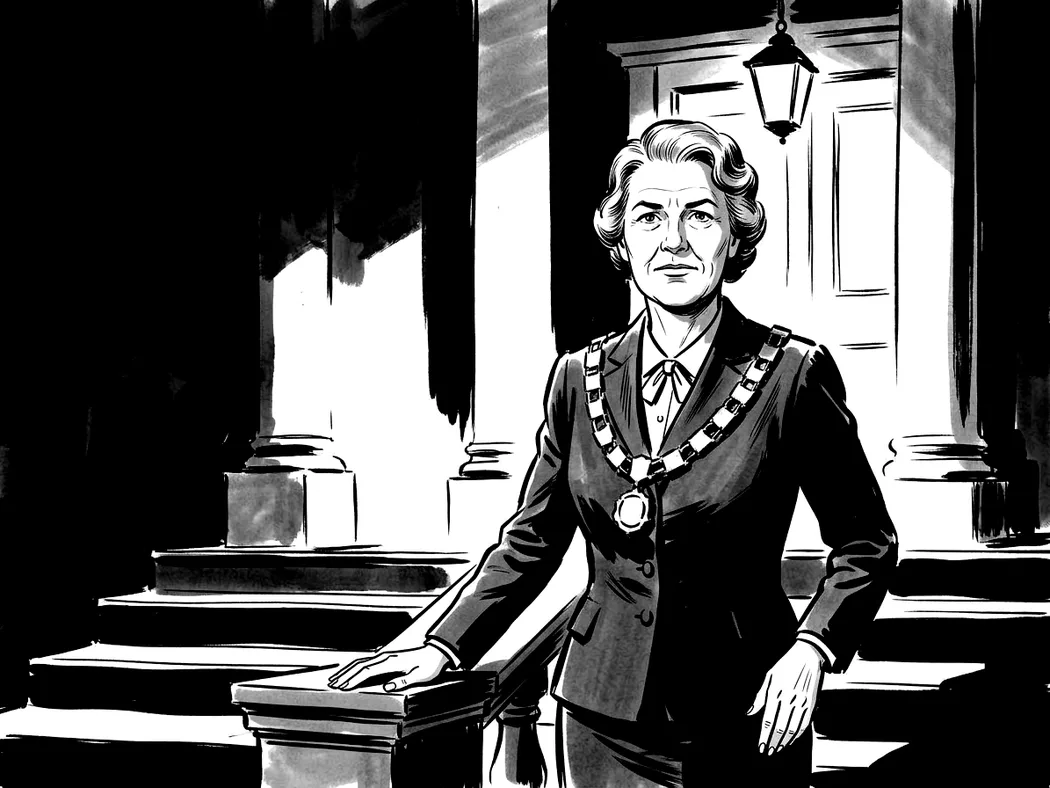
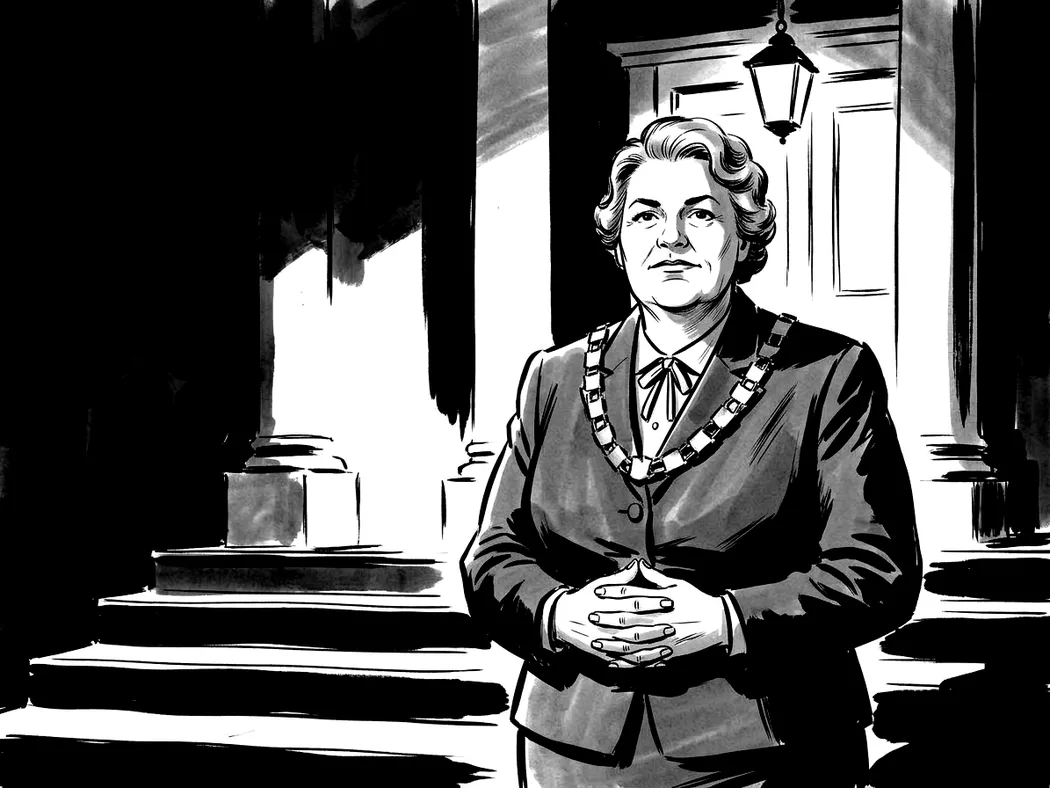
Byt läkarens bilder och borgmästarkvinnan mot Jonas nya
Läkaren står nu i sin mottagning och borgmästarkvinnan är omgjord med
knäppta händer (Jonas 2026-11-15).

Claude-Session: https://claude.ai/code/session_01X82C4AptUEE9LHKngPSzUq

Changed region(s): [[0.2133, 0.1218, 0.9143, 1.0], [0.3352, 0.6091, 0.3657, 0.7005], [0.3048, 0.5787, 0.3352, 0.6091]]

diff --git a/src/scenes/sceneImages.js b/src/scenes/sceneImages.js
@@ -90,10 +90,10 @@ export const SCENE_IMAGES = /** @type {const} */ ({
   roleMafiaMan: { src: roleMafiaMan, alt: 'En man i kritstrecksrandig kostym och hatt röker i en dörröppning en regnig natt.', position: '100% 30%' },
   roleDetectiveWoman: { src: roleDetectiveWoman, alt: 'En kvinnlig detektiv i ljus trenchcoat och fedora antecknar i ett block i en regnig gränd under en gatlykta.', position: '100% 30%' },
   roleDetectiveMan: { src: roleDetectiveMan, alt: 'En manlig detektiv i ljus trenchcoat och fedora antecknar i ett block i en regnig gränd under en gatlykta.', position: '100% 30%' },
-  roleDoctorWoman: { src: roleDoctorWoman, alt: 'En läkare i mörk kappa med stetoskop och läkarväska står i en upplyst dörröppning.', position: '100% 30%' },
+  roleDoctorWoman: { src: roleDoctorWoman, alt: 'En kvinnlig läkare i vit rock med stetoskop står med armarna i kors i sin mottagning, i ljuset från en skrivbordslampa.', position: '100% 30%' },
   roleBodyguardWoman: { src: roleBodyguardWoman, alt: 'En lång livvakt i bältad rock och liten hatt står med armarna i kors vid en upplyst port en natt och ser prövande på oss.', position: '90% 30%' },
   roleBodyguardMan: { src: roleBodyguardMan, alt: 'En stor livvakt med mustasch, i rock och fedora, står med armarna i kors vid en upplyst port en natt och ser rakt på oss.', position: '90% 30%' },
-  roleDoctorMan: { src: roleDoctorMan, alt: 'En läkare med glasögon och mustasch, i mörk kappa med stetoskop och läkarväska, står i en upplyst dörröppning.', position: '100% 30%' },
+  roleDoctorMan: { src: roleDoctorMan, alt: 'En läkare med glasögon och mustasch, i vit rock med stetoskop, står vid skrivbordet i sin mottagning, i ljuset från en skrivbordslampa.', position: '100% 30%' },
   roleLawyerWoman: { src: roleLawyerWoman, alt: 'En advokat i knäppt dräkt, blus med rosett och liten hatt står i dörren till sin upplysta byrå med en tjock akt mot sidan och glasögonen i handen.', position: '100% 30%' },
   roleLawyerMan: { src: roleLawyerMan, alt: 'En advokat i kritstrecksrandig kostym med väst och lossad slips lutar sig i dörren till sin upplysta byrå med en tjock akt under armen och ler lite slugt.', position: '100% 30%' },
   roleCitizenWoman: { src: roleCitizenWoman, alt: 'En kvinna i blommig klänning står i sin öppna ytterdörr och ser ut i mörkret med handen mot dörrkarmen.', position: '75% 30%' },
@@ -108,7 +108,7 @@ export const SCENE_IMAGES = /** @type {const} */ ({
   roleSausageVendorMan: { src: roleSausageVendorMan, alt: 'En korvgubbe med mustasch och pappersmössa räcker fram en korv med en tång vid sin korvvagn i regnet.', position: '100% 30%' },
   roleGodfatherWoman: { src: roleGodfatherWoman, alt: 'En äldre kvinna med pärlhalsband sitter med hopknäppta händer bakom ett skrivbord i persiennernas skugga.', position: '90% 30%' },
   roleGodfatherMan: { src: roleGodfatherMan, alt: 'En äldre man i mörk kostym sitter med hopknäppta händer bakom ett skrivbord i persiennernas skugga.', position: '90% 30%' },
-  roleMayorWoman: { src: roleMayorWoman, alt: 'En kvinnlig borgmästare i dräkt och ämbetskedja står på trappan framför stadshuset.', position: '75% 30%' },
+  roleMayorWoman: { src: roleMayorWoman, alt: 'En kvinnlig borgmästare i dräkt och ämbetskedja står med knäppta händer på trappan framför stadshuset.', position: '75% 30%' },
   roleMayorMan: { src: roleMayorMan, alt: 'En manlig borgmästare i kostym och ämbetskedja höjer handen på trappan framför stadshuset.', position: '100% 30%' },
   roleMadmanWoman: { src: roleMadmanWoman, alt: 'En kvinna med långt rufsigt hår i tvångströja flinar i en vadderad cell under en lampa.', position: '100% 30%' },
   roleMadmanMan: { src: roleMadmanMan, alt: 'En man med rufsigt hår i tvångströja flinar i en vadderad cell under en lampa.', position: '100% 30%' },

diff --git a/docs/bildsmak.md b/docs/bildsmak.md
@@ -310,6 +310,17 @@ en regel.
   filnamn, så omdömena och exemplen ovan som nämner dem gäller de gamla
   bilderna tills Jonas har bedömt de nya. Detektiverna från 2026-11-14 med
   mindre lavering är därmed också ersatta.
+- 2026-11-15, `roll-borgmastare-kvinna` omgjord: "hon behöver inte vara så
+  smal, och behöver inte heller lägga handen på trappan". Med händerna löst
+  knäppta: "hon ser osäker ut, händerna borde nog röra varandra". Prompten
+  ber nu om en kraftig kvinna med knäppta händer som ser säker ut.
+- 2026-11-15, `roll-lakare-*` i sin mottagning i stället för på gatan, med
+  bartendern som stilreferens som förut (Jonas: "kan du ändra så att han är
+  i sin klinik?").
+- 2026-11-15, `roll-stadsbo-*`: "dörren saknar handtag, nyckeln sitter i ett
+  hål och sedan är det ett till nyckelhål under". Prompten låter nu personen
+  ha handen på en rund dörrknopp, utan nyckel, och dörren är fullstor ("dörren
+  ser lite för liten ut").
 
 ## Bilder att byta
 
